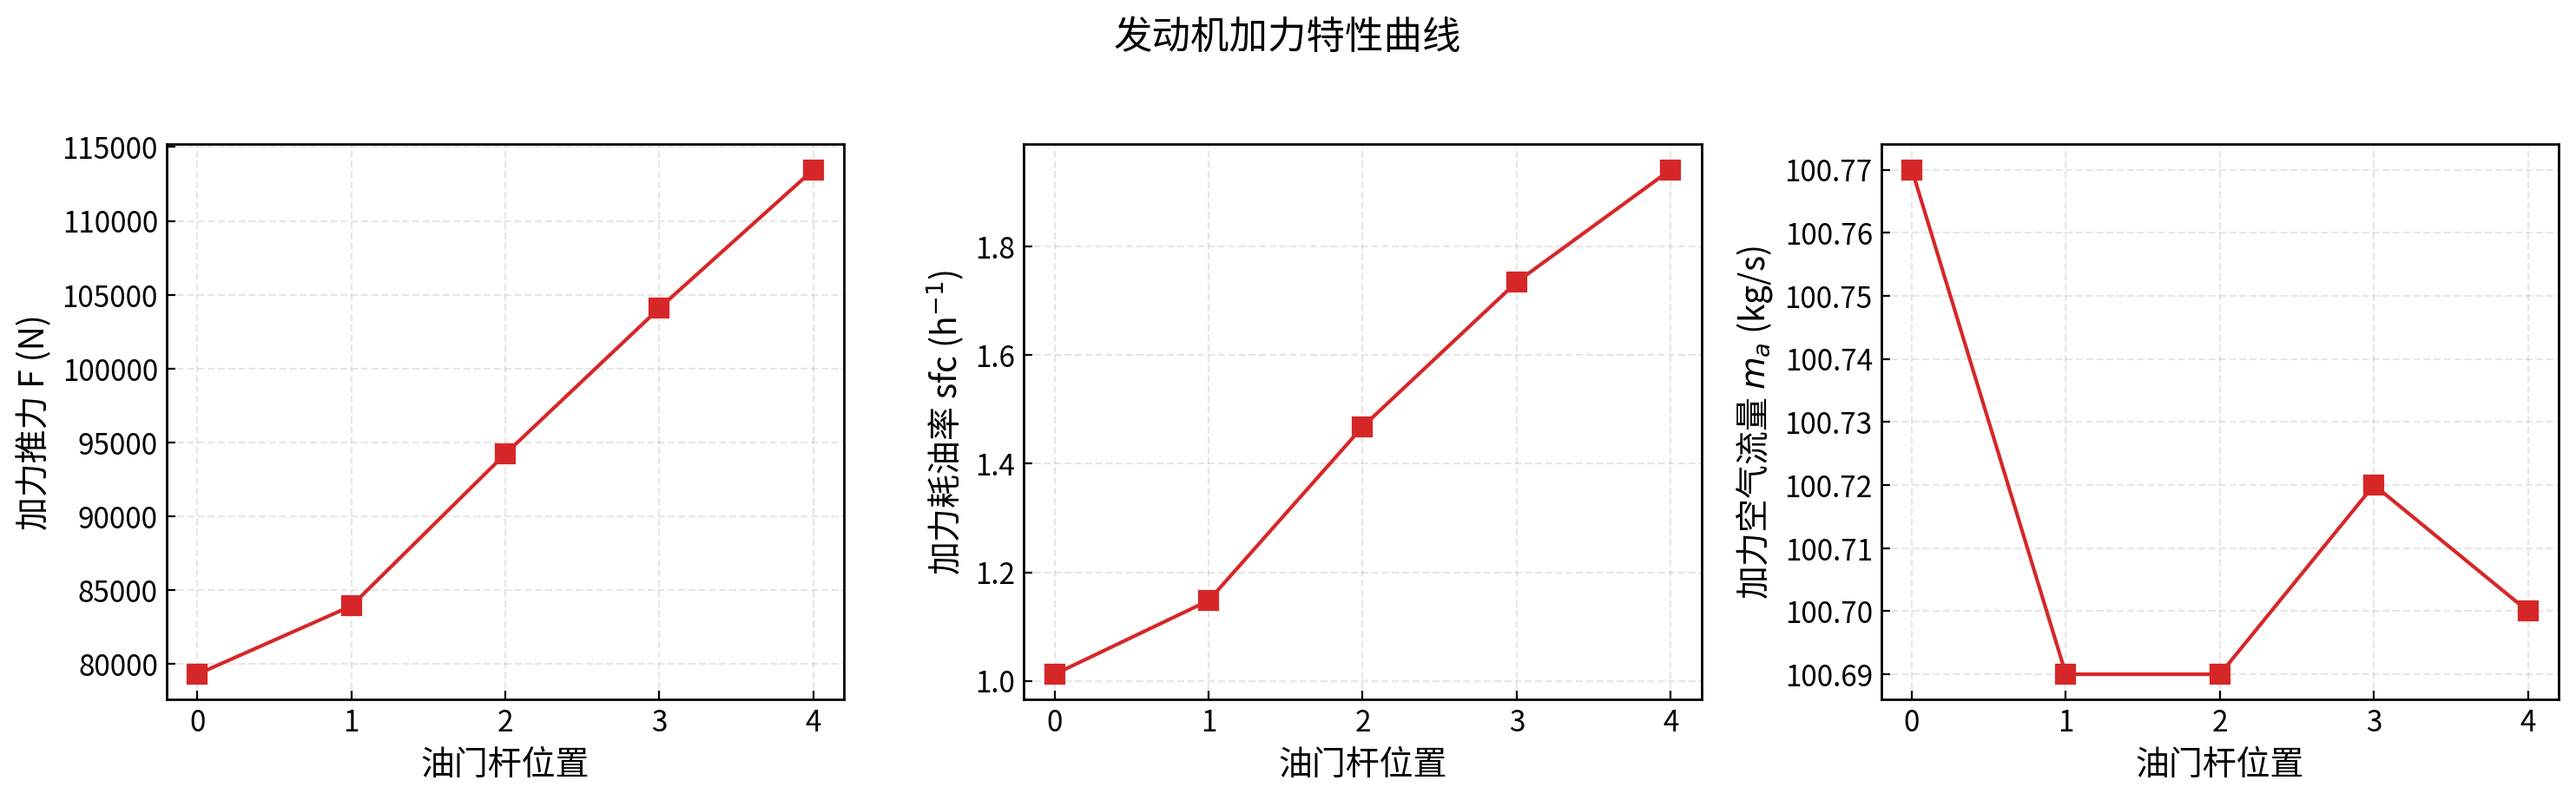
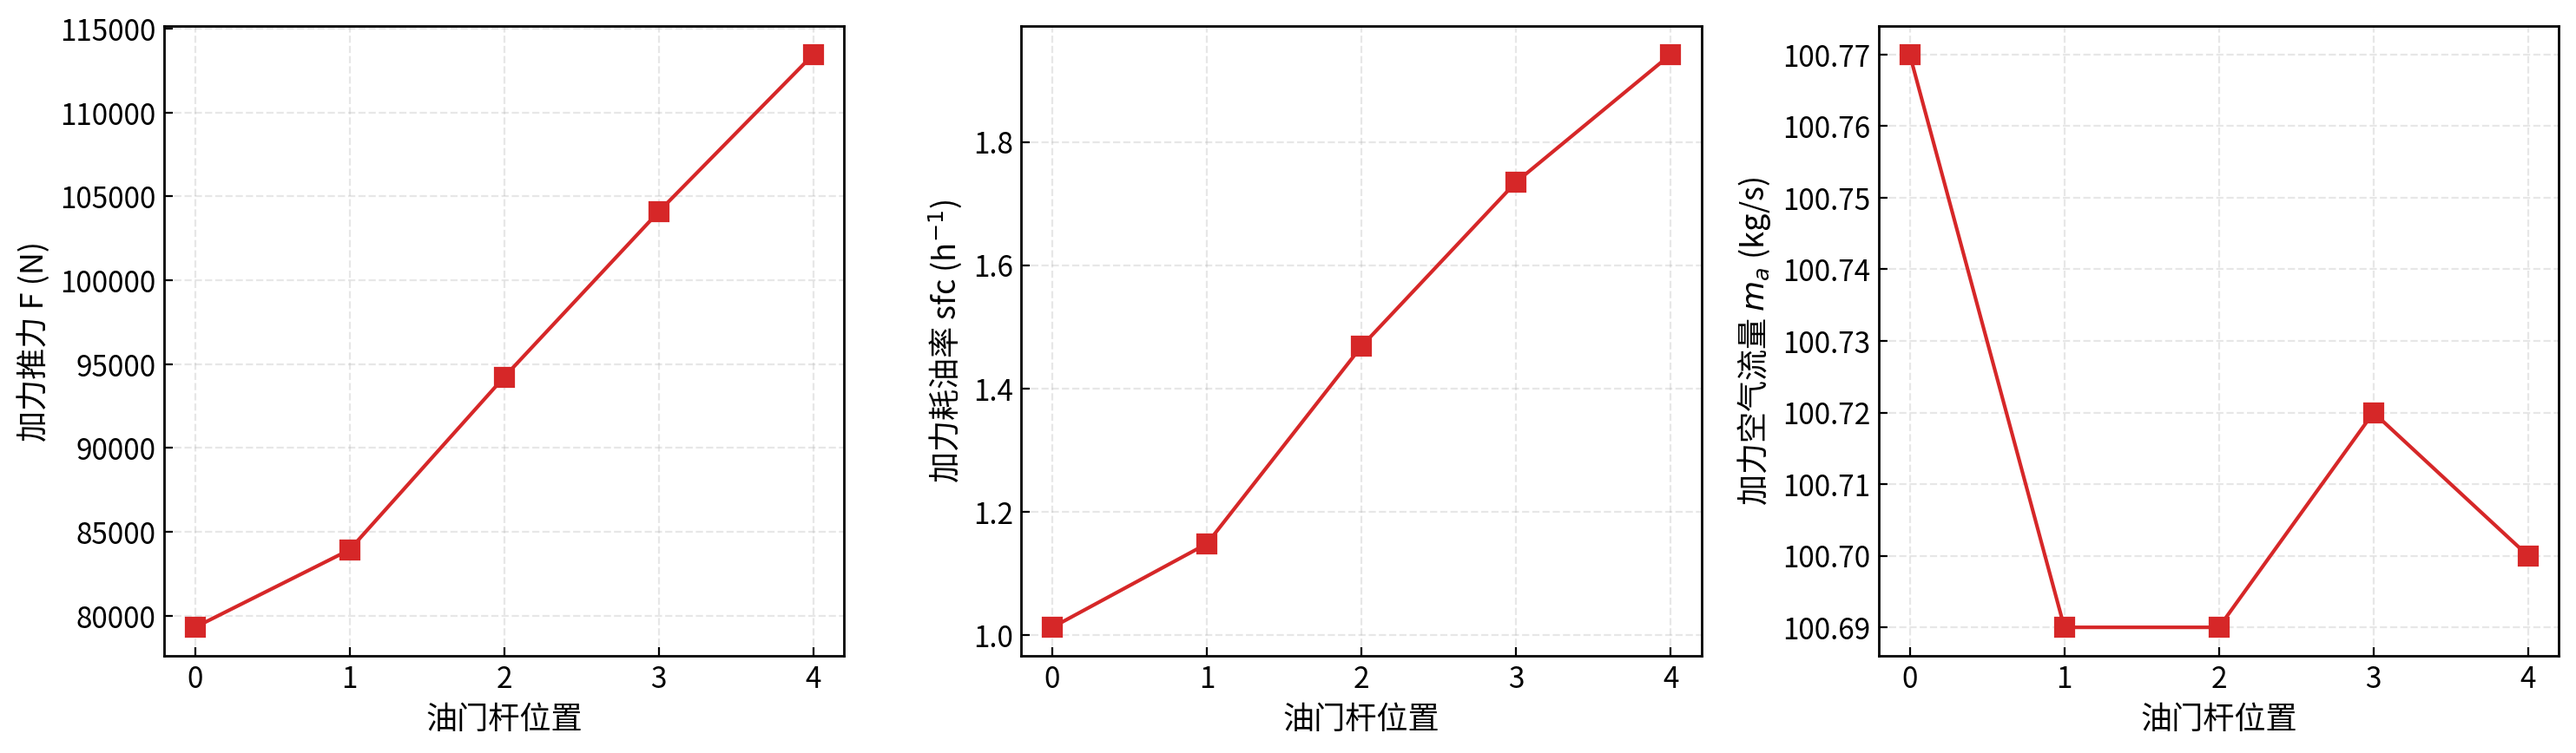
Remove suptitles, enlarge axis labels

diff --git a/lab1/reports/tables/table_exp1_trial.tex b/lab1/reports/tables/table_exp1_trial.tex
@@ -4,35 +4,23 @@
   \label{tab:exp1_trial}
   \footnotesize
   \setlength{\tabcolsep}{3pt}
-  \begin{tabular}{|c|*{13}{c|}}
-    \hline
-    \diagbox[width=3.6cm, height=1.3cm]{工作状态}{\makecell{参数名称 \\ (单位)}} & $n_1$ & $P_0$ & $T_0$ & $F$ & $W_f$ & $m_a$ & $P_2^*$ & $T_2^*$ & $P_3^*$ & $T_3^*$ & $P_5^*$ & $\alpha_1$ & $\alpha_2$ \\
-    \hline
-    \makecell{慢车状态 \\ (N2=32.9\%)} & 72.5 & 94.04 & 22.91 & 349.06 & 460.6 & 40.4 & 104.58 & 27.53 & 428.18 & 259.76 & 96.07 & 7 & 5 \\
-    \hline
-    N2=75\% & 75.5 & 94.06 & 22.94 & 643.90 & 655.7 & 47.4 & 105.01 & 27.88 & 453.59 & 274.49 & 104.64 & 7 & 6 \\
-    \hline
-    N2=80\% & 80.3 & 94.12 & 22.93 & 1823.50 & 1429.1 & 59.5 & 108.00 & 30.15 & 510.83 & 314.39 & 135.96 & 7 & 39 \\
-    \hline
-    N2=85\% & 85.1 & 94.12 & 22.93 & 2971.30 & 2057.2 & 70.9 & 124.21 & 48.53 & 652.01 & 364.90 & 173.04 & 7 & 75 \\
-    \hline
-    N2=90\% & 90.2 & 94.12 & 22.94 & 4211.20 & 2898.3 & 81.5 & 207.28 & 113.83 & 1181.08 & 410.97 & 213.89 & 16 & 105 \\
-    \hline
-    N2=95\% & 95.3 & 94.03 & 22.92 & 5544.40 & 3922.2 & 92.7 & 276.07 & 152.46 & 1680.87 & 458.26 & 255.58 & 85 & 105 \\
-    \hline
-    N2=97\% & 97.1 & 94.07 & 22.92 & 6028.60 & 4345.9 & 96.3 & 295.59 & 161.12 & 1836.78 & 478.44 & 270.35 & 97 & 105 \\
-    \hline
-    \makecell{最大状态 \\ (N2=32.9\%)} & 99.9 & 94.08 & 22.92 & 6745.90 & 5027.0 & 100.7 & 317.72 & 171.34 & 2036.30 & 508.93 & 294.25 & 105 & 105 \\
-    \hline
-    \makecell{加力状态 \\ ($a_0=-1$)} & 83.2 & 94.12 & 22.91 & 8084.70 & 8182.0 & 100.8 & 317.81 & 171.30 & 2036.67 & 508.80 & 294.29 & 105 & 105 \\
-    \hline
-    \makecell{加力状态 \\ ($a_0=0$)} & 88.8 & 94.03 & 22.91 & 8555.60 & 9819.7 & 100.7 & 317.56 & 171.34 & 2035.36 & 508.96 & 294.14 & 105 & 105 \\
-    \hline
-    \makecell{加力状态 \\ ($a_0=1$)} & 99.6 & 94.07 & 22.92 & 9605.20 & 14102.6 & 100.7 & 317.72 & 171.36 & 2035.83 & 508.69 & 294.00 & 105 & 105 \\
-    \hline
-    \makecell{加力状态 \\ ($a_0=2$)} & 108.0 & 94.09 & 22.90 & 10610.70 & 18408.3 & 100.7 & 317.80 & 171.33 & 2036.39 & 508.67 & 294.10 & 105 & 105 \\
-    \hline
-    \makecell{加力状态 \\ ($a_0=3$)} & 114.7 & 94.09 & 22.95 & 11566.30 & 22461.5 & 100.7 & 317.76 & 171.39 & 2036.05 & 508.71 & 294.02 & 105 & 105 \\
-    \hline
+  \begin{tabular}{cccccccccc}
+    \toprule
+    工作状态 & $n_1$ & $n_2$ & $F$(N) & $W_f$(kg/h) & $m_a$(kg/s) & $\pi_c^*$ & sfc(h$^{-1}$) & $\alpha_1$ & $\alpha_2$ \\
+    \midrule
+    慢车 & 72.5 & 32.9 & 3424 & 461 & 40.4 & 4.09 & 1.3195 & 7 & 5 \\
+    N2=75% & 75.5 & 33.8 & 6317 & 656 & 47.4 & 4.32 & 1.0183 & 7 & 6 \\
+    N2=80% & 80.3 & 40.0 & 17889 & 1429 & 59.5 & 4.73 & 0.7837 & 7 & 39 \\
+    N2=85% & 85.1 & 60.1 & 29148 & 2057 & 70.9 & 5.25 & 0.6924 & 7 & 75 \\
+    N2=90% & 90.2 & 82.4 & 41312 & 2898 & 81.5 & 5.70 & 0.6882 & 16 & 105 \\
+    N2=95% & 95.3 & 92.0 & 54391 & 3922 & 92.7 & 6.09 & 0.7074 & 85 & 105 \\
+    N2=97% & 97.1 & 94.5 & 59141 & 4346 & 96.3 & 6.21 & 0.7209 & 97 & 105 \\
+    最大 & 99.9 & 97.9 & 66177 & 5027 & 100.7 & 6.41 & 0.7452 & 105 & 105 \\
+    加力_a=0 & 83.2 & 97.9 & 79311 & 8182 & 100.8 & 6.41 & 1.0120 & 105 & 105 \\
+    加力_a=1 & 88.8 & 97.9 & 83930 & 9820 & 100.7 & 6.41 & 1.1478 & 105 & 105 \\
+    加力_a=2 & 99.6 & 97.9 & 94227 & 14103 & 100.7 & 6.41 & 1.4682 & 105 & 105 \\
+    加力_a=3 & 108.0 & 97.9 & 104091 & 18408 & 100.7 & 6.41 & 1.7349 & 105 & 105 \\
+    加力_a=4 & 114.7 & 97.9 & 113465 & 22462 & 100.7 & 6.41 & 1.9420 & 105 & 105 \\
+    \bottomrule
   \end{tabular}
 \end{table}

diff --git a/lab1/reports/chapters/exp1_trial_run.tex b/lab1/reports/chapters/exp1_trial_run.tex
@@ -20,14 +20,13 @@
         \item \textbf{加力特性曲线（选做）}
         \begin{align*}
             F_{af} &= f(\text{油门杆位置}) \\
-            \text{sfc}_{af} &= f(\text{油门杆位置}) \\
-            A_e &= f(\text{油门杆位置})
+            \text{sfc}_{af} &= f(\text{油门杆位置}) 
         \end{align*}
     \end{itemize}
     \item 能力培养：实际试验操作能力、团结协作能力、综合应用能力。
 \end{enumerate}
 
-\subsection{实验装置}
+\subsection{实验设备简介}
 
 该实验装置是一套发动机模拟试车系统，根据发动机地面台架试车台的功能进行模拟仿真，试车操作界面与实际发动机试车台基本相同。系统由油门杆、控制操作面板和计算机系统组成。
 
@@ -38,30 +37,17 @@
     \item 大气参数：$P_0$（大气压力）、$T_0$（大气温度）
     \item 性能参数：$F$（推力）、$W_f$（燃油消耗量）、$m_a$（空气流量）
     \item 转子参数：$n_1$（低压转子转速）、$n_2$（高压转子转速）
-    \item 截面参数：$P_2^*$、$T_2^*$（风扇出口）、$P_3^*$、$T_3^*$（压气机出口）、$P_5^*$、$T_5^*$（涡轮后）
-    \item 控制参数：$\alpha_1$、$\alpha_2$（导流叶片角度）、$A_t$（喷口喉道面积）
+    \item 截面参数：$P_2^*$、$T_2^*$（风扇出口）、$P_3^*$、$T_3^*$（压气机出口）、$P_5^*$（涡轮后）
+    \item 控制参数：$\alpha_1$、$\alpha_2$（导流叶片角度）
 \end{itemize}
 
-\subsection{实验程序}
-
-\begin{enumerate}
-    \item 三到五人结为一组，明确各人的具体分工。
-    \item 试车前认真学习《实验指导书》。
-    \item 熟悉试车程序和试验设备情况。
-    \item 准备好试车参数记录所需要的纸张和笔。
-    \item 严格按要求起动发动机，并通过油门操纵杆控制发动机进入不同的工作状态。
-    \item 当发动机稳定在某一发动机状态时，按记录表记录发动机性能数据。
-    \item 试验结束前对记录数据进行检查，对没有记录或记录数据不正确的个别测量点进行补测。
-    \item 试验结束后整理好试验设备。
-\end{enumerate}
-
-\subsection{数据记录}
+\subsection{数据记录列表}
 
 实验数据按附表1格式记录，包含慢车状态至加力状态共13个工作状态的完整参数。
 
 \input{tables/table_exp1_trial.tex}
 
-\subsection{数据处理方法}
+\subsection{数据处理方法说明}
 
 \subsubsection{耗油率计算}
 
@@ -75,7 +61,7 @@
     \pi_c^* = \frac{P_3^*}{P_2^*}
 \end{equation}
 
-\subsection{数据处理结果及分析}
+\subsection{数据处理结果（曲线）及分析}
 
 \subsubsection{节流特性曲线}
 

diff --git a/lab1/scripts/process_exp1.py b/lab1/scripts/process_exp1.py
@@ -68,10 +68,9 @@ def plot_throttle(df):
     axes = axes.flatten()
     for ax, (col, x, yl, xl) in zip(axes, curves):
         ax.plot(x, thr[col].values, 'o-', markersize=6)
-        ax.set_xlabel(xl); ax.set_ylabel(yl); ax.grid(True, alpha=0.3)
+        ax.set_xlabel(xl, fontsize=13); ax.set_ylabel(yl, fontsize=13); ax.grid(True, alpha=0.3)
     # 隐藏第8个空子图
     axes[-1].set_visible(False)
-    fig.suptitle("发动机节流特性曲线", fontsize=16, y=1.01)
     fig.tight_layout()
     fig.savefig(os.path.join(FIG_DIR, "exp1_throttle_characteristics.png"), dpi=200)
     plt.close()
@@ -90,8 +89,7 @@ def plot_afterburner(df):
     fig, axes = plt.subplots(1, 3, figsize=(15, 4.5))
     for ax, (col, yl) in zip(axes, curves):
         ax.plot(x, af[col].values, 's-', color='#d62728', markersize=8)
-        ax.set_xlabel("油门杆位置"); ax.set_ylabel(yl); ax.grid(True, alpha=0.3)
-    fig.suptitle("发动机加力特性曲线", fontsize=16, y=1.02)
+        ax.set_xlabel("油门杆位置", fontsize=13); ax.set_ylabel(yl, fontsize=13); ax.grid(True, alpha=0.3)
     fig.tight_layout()
     fig.savefig(os.path.join(FIG_DIR, "exp1_afterburner_characteristics.png"), dpi=200)
     plt.close()

diff --git a/lab1/reports/lab1_report.tex b/lab1/reports/lab1_report.tex
@@ -10,7 +10,7 @@
 \begin{document}
 \makeCover
 \makeTOC
-
+    
 \include{chapters/exp1_trial_run}
 \include{chapters/exp2_virtual_structure}
 \include{chapters/exp3_virtual_assembly}
